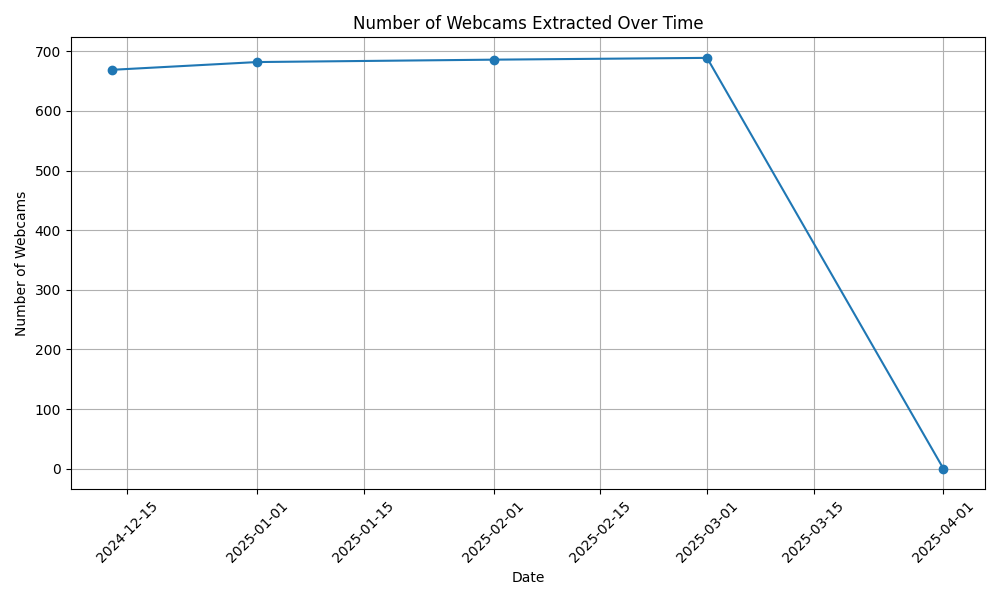
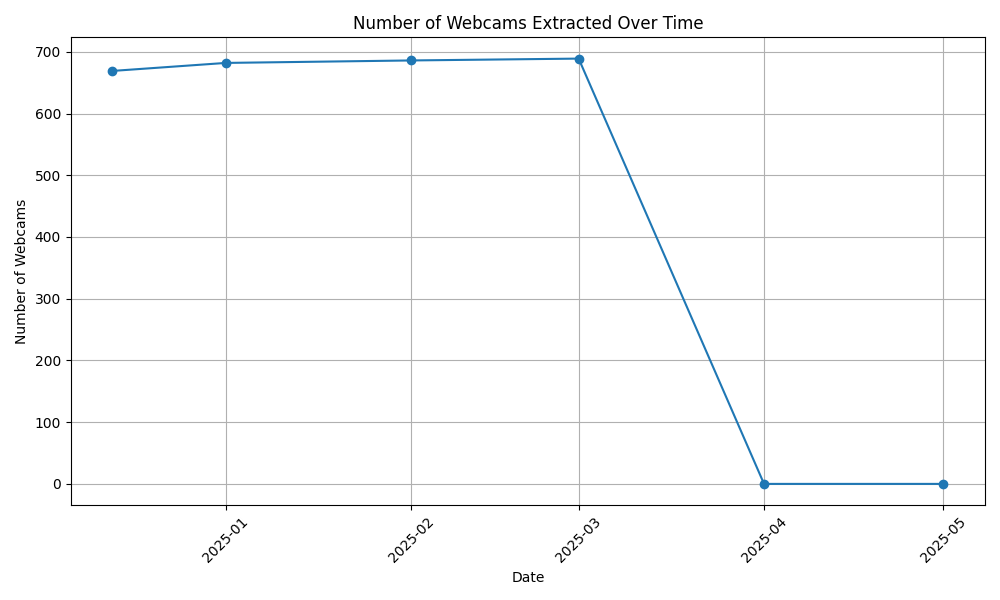
Skaping 2025-05-01

diff --git a/Skaping/README.md b/Skaping/README.md
@@ -1,6 +1,6 @@
 # Skaping 🎥
 
-**Data last updated on: 2025-04-01**
+**Data last updated on: 2025-05-01**
 
 Data extracted from: [Skaping](https://www.skaping.com)
 
